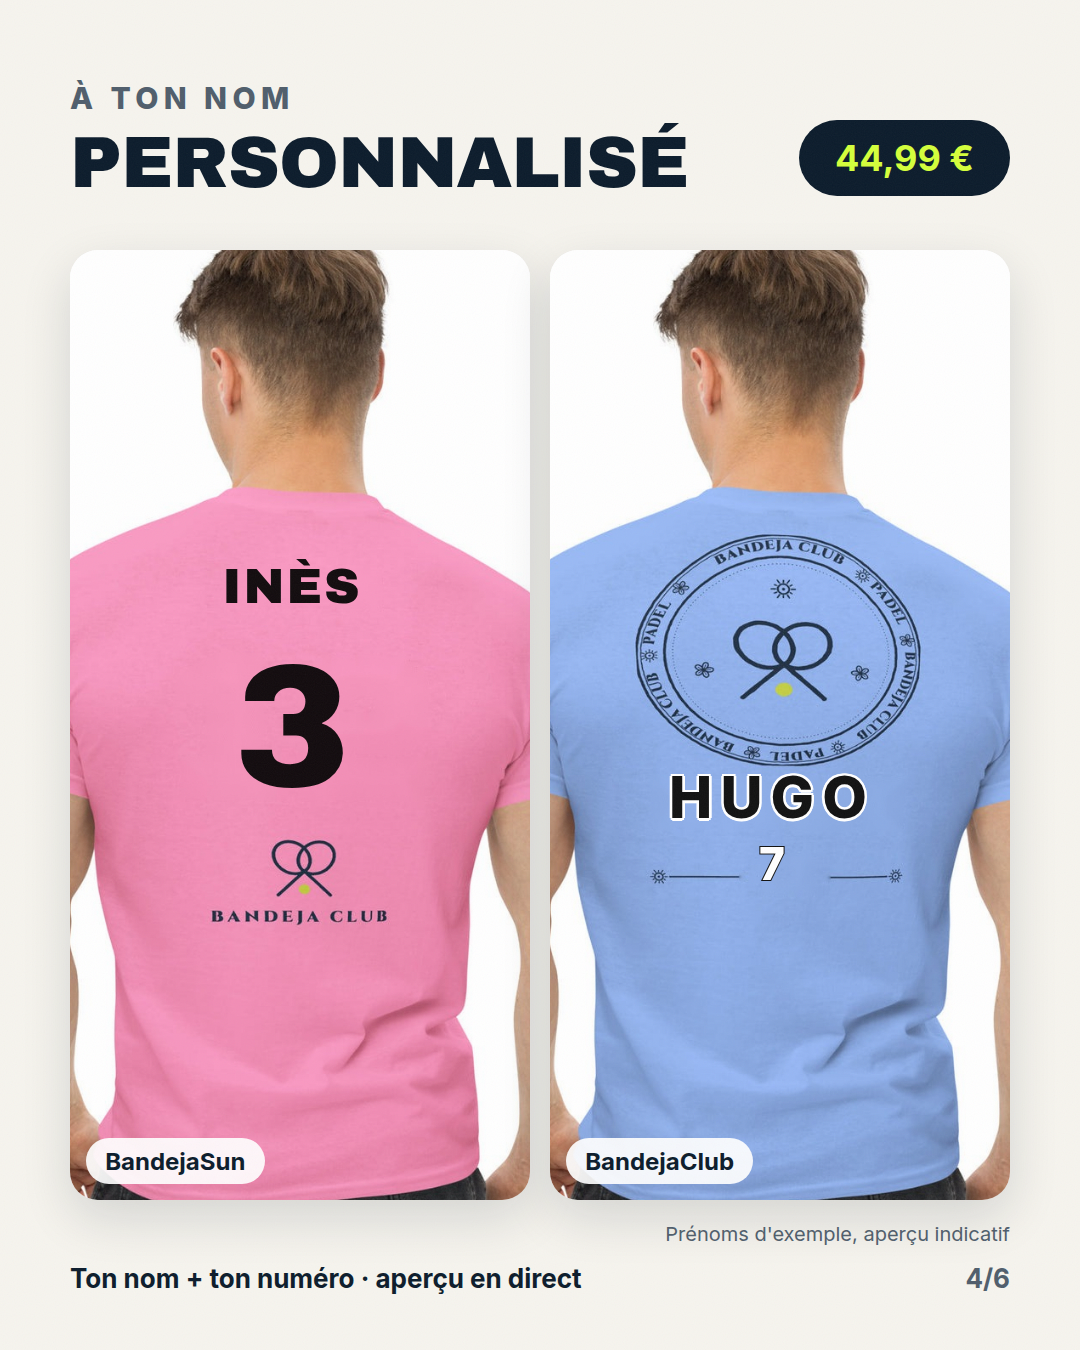
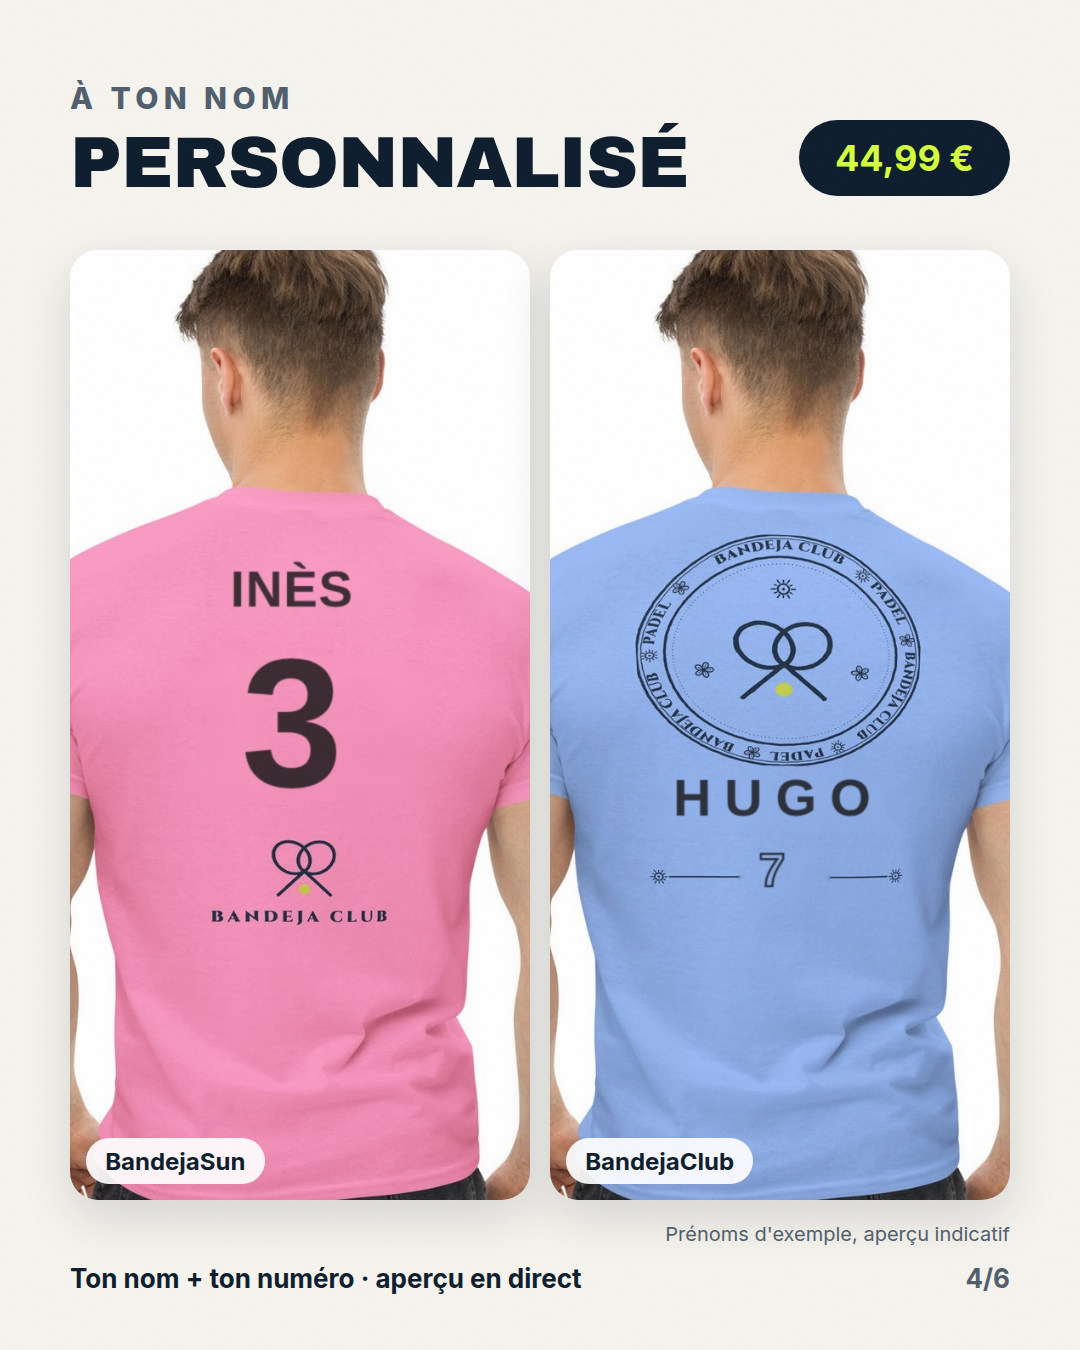
Carrousel gamme, diapo 4 : nom et numéro intégrés au tissu (police de l'aperçu du site)
Claude-Session: https://claude.ai/code/session_01C8kmmK5jZdRE52kQ46Hk13

Changed region(s): [[0.2139, 0.4044, 0.3361, 0.5911], [0.6111, 0.56, 0.825, 0.6533]]

diff --git a/shopify/reseaux-sociaux/source/carrousel-gamme.html b/shopify/reseaux-sociaux/source/carrousel-gamme.html
@@ -50,12 +50,8 @@
 <div class="slide" id="s4">
   <div class="cap"><div><p class="kicker">À ton nom</p><p class="disp" style="font-size:72px;margin-top:14px">Personnalisé</p></div><span class="pill price">44,99 €</span></div>
   <div class="grid" style="grid-template-columns:1fr 1fr">
-    <div class="card" style="overflow:hidden"><div class="ph" style="position:absolute;width:1400px;height:1400px;transform-origin:0 0;transform:scale(.85);left:-373px;top:-60px"><img src="a/sun-b-man-pink-clean.jpg" style="width:1400px;height:1400px">
-      <div class="pt" style="top:438px;font-family:var(--display);font-size:58px;letter-spacing:.04em;color:#111;mix-blend-mode:multiply">INÈS</div>
-      <div class="pt" style="top:530px;font-family:var(--display);font-size:205px;color:#111;mix-blend-mode:multiply">3</div></div><span class="pill lbl">BandejaSun</span></div>
-    <div class="card" style="overflow:hidden"><div class="ph" style="position:absolute;width:1400px;height:1400px;transform-origin:0 0;transform:scale(.85);left:-373px;top:-60px"><img src="a/clubp-b-man-blue-clean.jpg" style="width:1400px;height:1400px">
-      <div class="pt" style="top:680px;font-family:var(--body);font-weight:800;font-size:68px;letter-spacing:.14em;color:#111;text-shadow:0 0 0 #fff,3px 0 #fff,-3px 0 #fff,0 3px #fff,0 -3px #fff,2px 2px #fff,-2px -2px #fff,2px -2px #fff,-2px 2px #fff">HUGO</div>
-      <div class="pt" style="top:768px;font-family:var(--body);font-weight:800;font-size:52px;color:#fff;-webkit-text-stroke:2.5px #111;paint-order:stroke fill">7</div></div><span class="pill lbl">BandejaClub</span></div>
+    <div class="card" style="overflow:hidden"><div class="ph" style="position:absolute;width:1400px;height:1400px;transform-origin:0 0;transform:scale(.85);left:-373px;top:-60px"><img src="a/sun-b-man-pink-perso.jpg" style="width:1400px;height:1400px"></div><span class="pill lbl">BandejaSun</span></div>
+    <div class="card" style="overflow:hidden"><div class="ph" style="position:absolute;width:1400px;height:1400px;transform-origin:0 0;transform:scale(.85);left:-373px;top:-60px"><img src="a/clubp-b-man-blue-perso.jpg" style="width:1400px;height:1400px"></div><span class="pill lbl">BandejaClub</span></div>
   </div>
   <p class="abs" style="left:70px;right:70px;bottom:104px;font-size:20px;color:var(--muted);text-align:right">Prénoms d'exemple, aperçu indicatif</p>
   <div class="foot"><span>Ton nom + ton numéro · aperçu en direct</span><span class="n">4/6</span></div>

diff --git a/shopify/reseaux-sociaux/source/perso-text.html b/shopify/reseaux-sociaux/source/perso-text.html
@@ -1,0 +1,16 @@
+<!doctype html><html><head><meta charset="utf-8">
+<link rel="stylesheet" href="https://fonts.googleapis.com/css2?family=Montserrat:wght@600;700;800;900&display=swap">
+<style>html,body{margin:0;background:transparent}
+.z{position:relative;width:1400px;height:1400px;display:none}
+.t{position:absolute;left:0;width:1400px;text-align:center;white-space:nowrap;line-height:1;font-family:Montserrat,sans-serif;color:#151515}
+</style></head><body>
+<div class="z" id="sun">
+  <div class="t" style="top:440px;font-weight:800;font-size:60px;letter-spacing:.02em">INÈS</div>
+  <div class="t" style="top:520px;font-weight:900;font-size:215px">3</div>
+</div>
+<div class="z" id="club">
+  <div class="t" style="top:684px;font-weight:700;font-size:62px;letter-spacing:.25em;margin-left:.125em">HUGO</div>
+  <div class="t" style="top:772px;font-weight:600;font-size:56px;color:transparent;-webkit-text-stroke:2.6px #151515">7</div>
+</div>
+<script>document.getElementById(location.hash.slice(1)).style.display='block'</script>
+</body></html>

diff --git a/shopify/reseaux-sociaux/source/perso-text.js b/shopify/reseaux-sociaux/source/perso-text.js
@@ -1,0 +1,7 @@
+const { chromium } = require('playwright-core'); const path=require('path');
+(async()=>{const b=await chromium.launch({executablePath:'/opt/pw-browsers/chromium-1194/chrome-linux/chrome'});
+const p=await b.newPage({viewport:{width:1400,height:1400}});
+for(const id of ['sun','club']){await p.goto('file://'+path.resolve('perso-text.html')+'#'+id);await p.reload();await p.evaluate(()=>document.fonts.ready);await p.waitForTimeout(300);
+const ok=await p.evaluate(()=>document.fonts.check('900 20px Montserrat'));console.log(id,ok);
+await p.screenshot({path:`txt-${id}.png`,omitBackground:true});}
+await b.close();})();

diff --git a/shopify/reseaux-sociaux/source/perso-comp.py b/shopify/reseaux-sociaux/source/perso-comp.py
@@ -1,0 +1,27 @@
+import numpy as np
+from PIL import Image, ImageFilter
+from scipy.ndimage import gaussian_filter, map_coordinates
+def comp(photo, txt, out):
+    ph=np.asarray(Image.open(photo).convert('RGB')).astype(np.float32)/255
+    t=np.asarray(Image.open(txt).convert('RGBA')).astype(np.float32)/255
+    L=ph.mean(2)
+    # relief du tissu : grandes ombres (plis) + fin grain
+    Lb=gaussian_filter(L,6)
+    a=t[...,3]; m=a>0.05
+    ref=np.median(Lb[gaussian_filter(a,25)>0.02])
+    shade=np.clip(Lb/ref,0.55,1.12)
+    grain=np.clip(1+(L-gaussian_filter(L,1.5))*2.2,0.85,1.15)
+    # déformation suivant les plis
+    gy,gx=np.gradient(gaussian_filter(L,10))
+    yy,xx=np.mgrid[0:L.shape[0],0:L.shape[1]].astype(np.float32)
+    k=60
+    warp=lambda c: map_coordinates(c,[yy-gy*k,xx-gx*k],order=1,mode='constant')
+    tw=np.stack([warp(t[...,i]) for i in range(4)],-1)
+    a=gaussian_filter(tw[...,3],0.6)*0.93
+    ink=tw[...,:3]
+    # encre posée sur le tissu : légère transparence, prend la couleur du t-shirt (multiplication)
+    printed=(ink*0.9+ph*0.1)*shade[...,None]*grain[...,None]
+    o=ph*(1-a[...,None])+printed*a[...,None]
+    Image.fromarray((np.clip(o,0,1)*255+.5).astype(np.uint8)).save(out,quality=94)
+comp('a/sun-b-man-pink-clean.jpg','txt-sun.png','a/sun-b-man-pink-perso.jpg')
+comp('a/clubp-b-man-blue-clean.jpg','txt-club.png','a/clubp-b-man-blue-perso.jpg')
